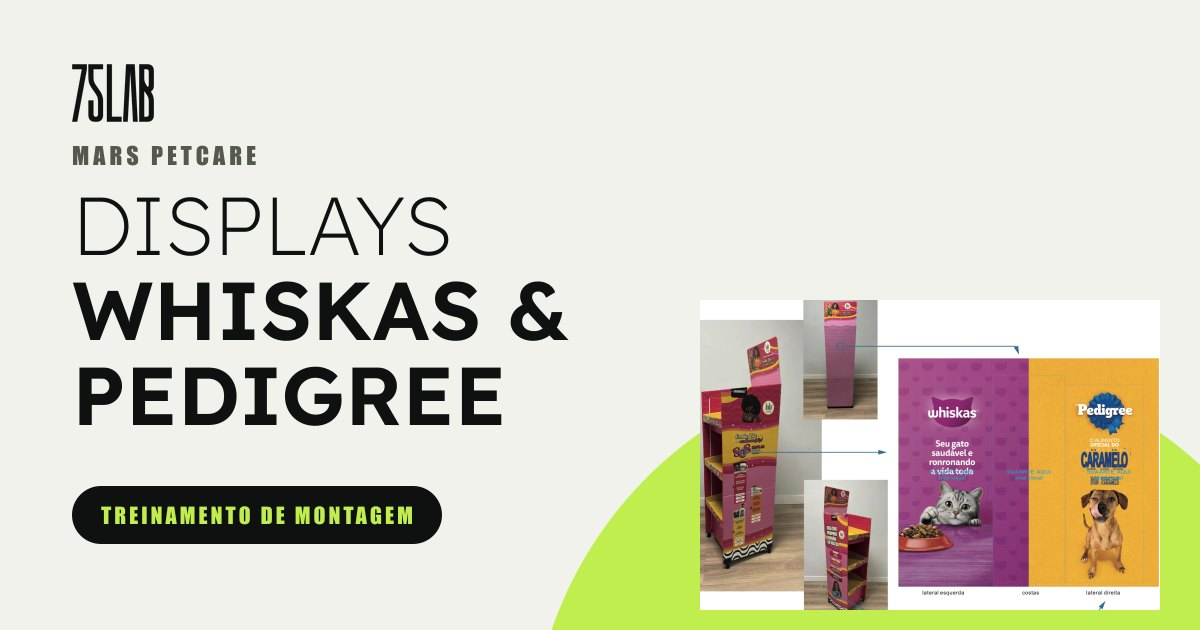
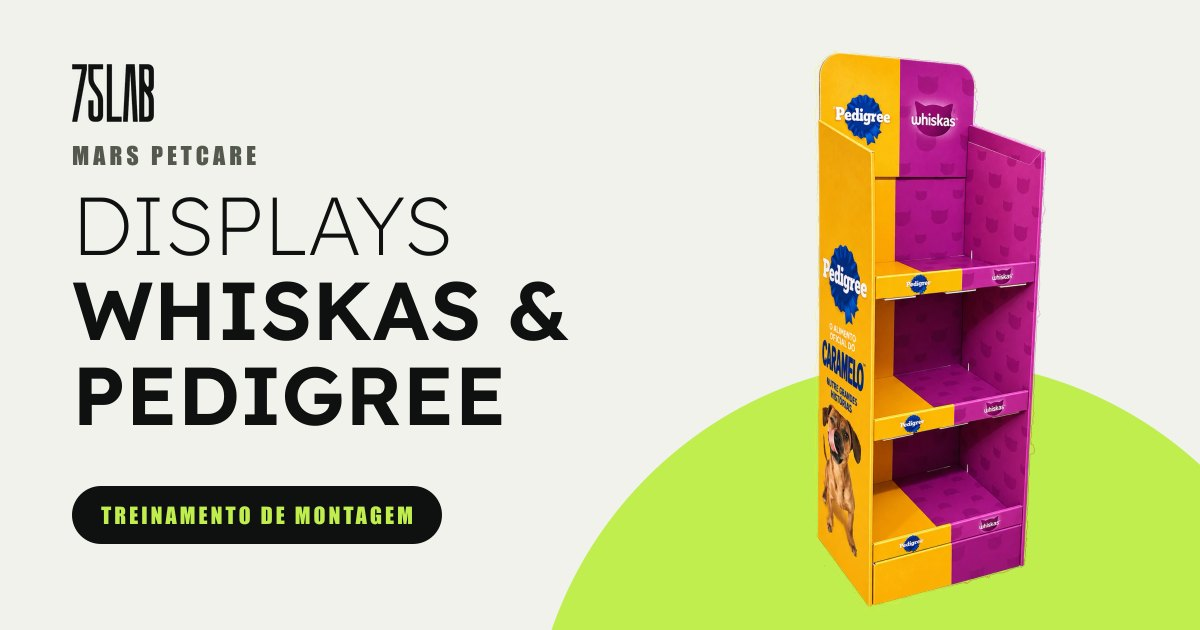
Whiskas & Pedigree: capa com a foto do Display Flex

Changed region(s): [[0.555, 0.0603, 0.9867, 0.9952]]

diff --git a/mars-displays-whiskas-pedigree/index.html b/mars-displays-whiskas-pedigree/index.html
@@ -29,7 +29,7 @@
   "linha": "Whiskas & Pedigree",
   "subtitulo": "Treinamento de montagem e execução",
   "tipo": "Display Automático, Display Flex, Display Flash e precificadores Pedigree e Whiskas · 4 peças",
-  "imagem": "img/destaque-laterais.webp",
+  "imagem": "img/flex-3.webp",
   "objetivo": {
     "texto": "Criar um ponto extra de **Pedigree** e **Whiskas** fora da gôndola, com as duas marcas lado a lado: **amarelo Pedigree** de um lado, **roxo Whiskas** do outro, e precificadores que deixam o preço visível para o shopper.",
     "pontos": [
